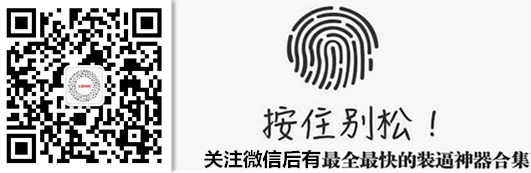
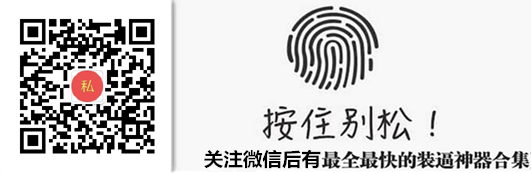
ds

Changed region(s): [[0.0, 0.0289, 0.3315, 0.9538]]

diff --git a/index.php b/index.php
@@ -18,8 +18,9 @@
 <section class="ui-container" style="padding-bottom:55px;">
 
 <ul class="ui-list ui-list-link ui-border-tb">
+<?php /*
 <li style="line-height:30px;"><a href="https://item.taobao.com/item.htm?id=528578907404" style="font-size:24px">购买本程序</a></li>
-
+-->
 
 <!-- 4-18更新两个生成器从这里开始   亿酷网络科技制作 bjlm123.taobao.com-->
 <li class="ui-border-t" onClick="javascript:window.location.href='yyxc/'">
@@ -30,7 +31,7 @@
             <h4 class="ui-nowrap">友谊小船说翻就翻了生成器</h4>
             <p class="ui-nowrap">友谊小船说翻就翻了</p>
         </div>
-    </li>	
+    </li>	*/ ?>
 <li class="ui-border-t" onClick="javascript:window.location.href='hjrss/'">
         <div class="ui-list-img">
             <span class="ui-tag-new" style="background-image:url(hjrss/icon.jpg)"></span>
@@ -40,7 +41,7 @@
             <p class="ui-nowrap">喝酒认怂书</p>
         </div>
     </li>	
-		
+	<?php /*
 	<li class="ui-border-t" onClick="javascript:window.location.href='wxqb/'">
         <div class="ui-list-img">
             <span class="ui-tag-new" style="background-image:url(wxqb/icon.jpg)"></span>
@@ -414,7 +415,7 @@
             <h4 class="ui-nowrap">移民申请生成器</h4>
             <p class="ui-nowrap">世界难么大我想去看看</p>
         </div>
-    </li>
+    </li> */?>
 </ul>
 </section>
 <footer class="ui-footer ui-footer-btn">

diff --git a/ewm.php b/ewm.php
@@ -1,1 +1,1 @@
-<img src="http://open.weixin.qq.com/qr/code/?username=gh_e290ecd04764">
+<img src="http://open.weixin.qq.com/qr/code/?username=gh_a306144dc981">

diff --git a/mc.php b/mc.php
@@ -1,1 +1,1 @@
-亿酷网络科技
+私货网络
